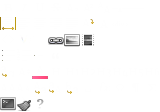
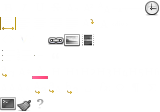
Added [time] tag

Changed region(s): [[0.9062, 0.0, 1.0, 0.1607]]

diff --git a/src/css/decoda.css b/src/css/decoda.css
@@ -37,7 +37,7 @@
 	top: 25px;
 	left: 2px;
 	z-index: 10;
-	width: 100px;
+	width: 125px;
 	background: rgba(255, 255, 255, .95);
 	box-shadow: 0 0 4px #4e4e4e;
 	border-radius: 2px; }
@@ -96,6 +96,7 @@
 .decoda-editor .tag-abbr span { background-position: -96px 0; }
 .decoda-editor .tag-br span { background-position: -112px 0; }
 .decoda-editor .tag-hr span { background-position: -128px 0; }
+.decoda-editor .tag-time span { background-position: -144px 0; }
 
 .decoda-editor .tag-align span { background-position: 0 -16px; }
 .decoda-editor .tag-left span { background-position: -16px -16px; }

diff --git a/src/js/Decoda.js b/src/js/Decoda.js
@@ -532,6 +532,7 @@ Decoda.filters.defaults =  [
 	{ tag: 'sub', title: 'Subscript' },
 	{ tag: 'sup', title: 'Superscript' },
 	{ tag: 'abbr', title: 'Abbreviation', hasDefault: true, attributes: ['default'] },
+	{ tag: 'time', title: 'Timestamp', prompt: 'Date:', promptFor: 'content' },
 	{ tag: 'br', title: 'Line Break', selfClose: true },
 	{ tag: 'hr', title: 'Horizontal Break', selfClose: true }
 ];
